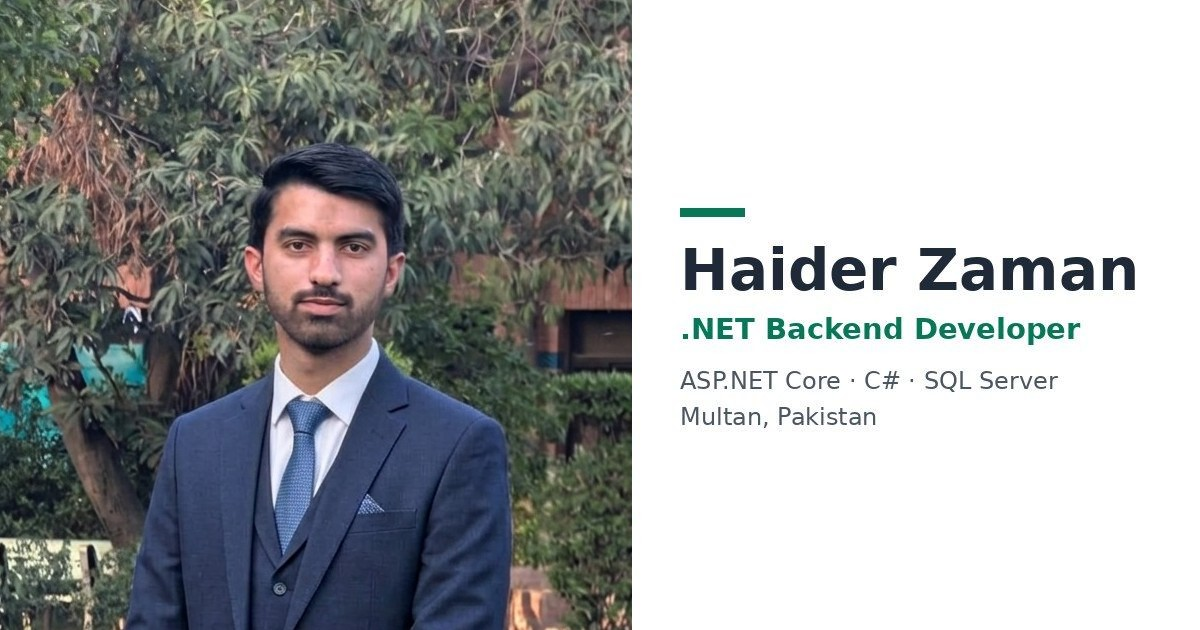
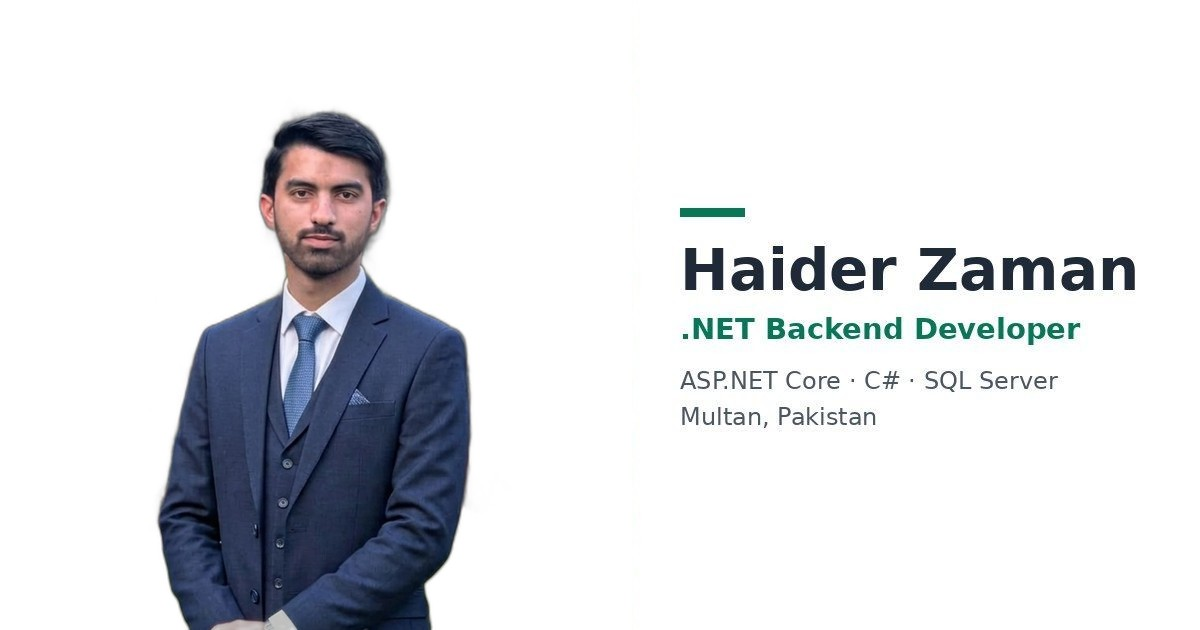
Photo: background-free cutout + soft shadow; header mission-control chrome
- Photo: the suit photo is now a background-free cutout
  (transparent PNG, background removed with rembg u2netp —
  the full u2net model OOM-killed the sandbox). The cutout
  floats on the cream page with a soft drop-shadow
  (photo-shadow, deliberately light). All four references
  now point at haider-zaman.png; the old .jpg is deleted
  (backed up at hidden_files/haider-zaman-suit-bg.jpg).
  Hero and About lose their card frame / white background —
  the photo floats free. og-image.jpg: left half is the
  cutout on white, right text panel untouched.
- Header: lime scroll-progress bar across the top, a compact
  "AVAILABLE" status pill (mono, pulsing lime dot), nav links
  get Agentware-style corner brackets on hover, active page
  gets a sage background, and the header gains a shadow +
  backdrop blur once scrolled. Colours unchanged (green +
  cream). Back-to-top anchor target (id="top") added.
- Section headings: bracketed mono eyebrow "[ 01 — About ]"
  with per-page numbers (About 01-04, Home 01-02, Projects /
  Experience / Contact / Blog 01). The lime-square eyebrow
  is replaced by the bracket style.

diff --git a/src/components/layout/site-header.tsx b/src/components/layout/site-header.tsx
@@ -19,6 +19,23 @@ export function SiteHeader() {
   const pathname = usePathname();
   const [menuOpen, setMenuOpen] = React.useState(false);
   const menuButtonRef = React.useRef<HTMLButtonElement>(null);
+  // Mission-control chrome (26 Nov 2026, Agentware-inspired):
+  // a lime scroll-progress bar across the top, and a shadow +
+  // backdrop blur once the page is scrolled. Colours stay the
+  // green + cream palette — only the chrome is new.
+  const [scrollProgress, setScrollProgress] = React.useState(0);
+  const [scrolled, setScrolled] = React.useState(false);
+  React.useEffect(() => {
+    const onScroll = () => {
+      const el = document.documentElement;
+      const max = el.scrollHeight - el.clientHeight;
+      setScrollProgress(max > 0 ? (el.scrollTop / max) * 100 : 0);
+      setScrolled(el.scrollTop > 8);
+    };
+    onScroll();
+    window.addEventListener("scroll", onScroll, { passive: true });
+    return () => window.removeEventListener("scroll", onScroll);
+  }, []);
   // No route progress bar (Haider, 26 Nov 2026): pages are static
   // and open without a loading state, so there is no loading bar to
   // show — a click goes straight to the next page.
@@ -48,7 +65,23 @@ export function SiteHeader() {
       : pathname === href || pathname.startsWith(`${href}/`);
 
   return (
-    <header className="sticky top-0 z-40 border-b border-border bg-background">
+    <header
+      id="top"
+      className={cn(
+        "sticky top-0 z-40 border-b border-border bg-background",
+        scrolled && "shadow-[0_1px_12px_rgb(15_61_46/0.08)] backdrop-blur-md",
+      )}
+    >
+      {/* Scroll progress — lime bar across the very top. */}
+      <div
+        aria-hidden="true"
+        className="absolute inset-x-0 top-0 h-[3px] bg-transparent"
+      >
+        <div
+          className="h-full bg-lime transition-[width] duration-100 ease-out"
+          style={{ width: `${scrollProgress}%` }}
+        />
+      </div>
       <div className="mx-auto flex h-16 max-w-6xl items-center justify-between px-4 sm:px-6">
         <Link
           href="/"
@@ -59,12 +92,12 @@ export function SiteHeader() {
           aria-label="Haider Zaman — home"
         >
           <Image
-            src="/images/haider-zaman.jpg"
+            src="/images/haider-zaman.png"
             alt="Haider Zaman"
             width={32}
             height={32}
             priority
-            className="size-8 rounded-full object-cover object-top transition-transform duration-200 group-hover:-translate-y-0.5"
+            className="photo-shadow-sm size-8 rounded-full object-cover object-top transition-transform duration-200 group-hover:-translate-y-0.5"
           />
           Haider Zaman
         </Link>
@@ -81,23 +114,54 @@ export function SiteHeader() {
                 href={link.href}
                 aria-current={active ? "page" : undefined}
                 className={cn(
-                  "nav-link rounded-md px-3 py-2 font-mono text-[15px] font-medium transition-colors duration-200",
-                  active ? "text-accent" : "text-muted hover:text-accent",
+                  "group rounded-md px-3 py-2 font-mono text-[15px] font-medium transition-colors duration-200",
+                  active
+                    ? "bg-mint text-accent"
+                    : "text-muted hover:text-accent",
                 )}
               >
+                {/* Corner brackets on hover (Agentware-style) — the
+                    bracket spans fade in; active page keeps them. */}
+                <span
+                  aria-hidden="true"
+                  className={cn(
+                    "text-accent transition-opacity duration-200",
+                    active
+                      ? "opacity-100"
+                      : "opacity-0 group-hover:opacity-100",
+                  )}
+                >
+                  [
+                </span>
                 {link.label}
+                <span
+                  aria-hidden="true"
+                  className={cn(
+                    "text-accent transition-opacity duration-200",
+                    active
+                      ? "opacity-100"
+                      : "opacity-0 group-hover:opacity-100",
+                  )}
+                >
+                  ]
+                </span>
               </Link>
             );
           })}
         </nav>
 
         <div className="flex items-center gap-1">
-          {/* No availability pill, social icons, or theme toggle
-              here (voice-note feedback, 23 Nov 2026; single theme,
-              26 Nov 2026): the "Seeking junior .NET roles" line
-              lives in the hero, GitHub/LinkedIn are in the footer,
-              the hero and the contact page, and the site is green +
-              cream only — there is no dark theme to toggle to. */}
+          {/* Terminal-style status pill (26 Nov 2026): the header
+              was bare, so a compact availability signal returns —
+              small, mono, and distinct from the old pill removed
+              on 23 Nov. The full seeking line lives in the hero. */}
+          <span className="mr-2 hidden items-center gap-2 rounded-full border border-border bg-background px-3 py-1 font-mono text-xs font-medium text-accent lg:inline-flex">
+            <span
+              aria-hidden="true"
+              className="inline-block size-1.5 animate-pulse rounded-full bg-lime"
+            />
+            AVAILABLE
+          </span>
           <Button
             ref={menuButtonRef}
             variant="ghost"

diff --git a/src/components/sections/hero.tsx b/src/components/sections/hero.tsx
@@ -184,18 +184,19 @@ export function Hero() {
           className="hero-enter mx-auto w-full max-w-[280px]"
           style={{ animationDelay: "0.16s" }}
         >
-          <div className="overflow-hidden rounded-xl border-2 border-navy/20 shadow-md">
-            <Image
-              src="/images/haider-zaman.jpg"
-              alt="Haider Zaman — .NET Backend Developer, Multan, Pakistan"
-              width={560}
-              height={700}
-              priority
-              quality={70}
-              sizes="(max-width: 768px) 280px, 280px"
-              className="aspect-[4/5] w-full object-cover object-top transition-transform duration-300 hover:scale-[1.02]"
-            />
-          </div>
+          {/* No card frame: the photo is a background-free cutout
+              that floats on the cream page, lifted by a soft
+              drop-shadow (photo-shadow) — no border, no box. */}
+          <Image
+            src="/images/haider-zaman.png"
+            alt="Haider Zaman — .NET Backend Developer, Multan, Pakistan"
+            width={560}
+            height={700}
+            priority
+            quality={70}
+            sizes="(max-width: 768px) 280px, 280px"
+            className="photo-shadow aspect-[4/5] w-full object-cover object-top transition-transform duration-300 hover:scale-[1.02]"
+          />
           <p className="mt-3 text-center text-sm font-medium text-navy">
             {profile.roleLine} · {profile.location}
           </p>

diff --git a/src/components/motion/reveal.tsx b/src/components/motion/reveal.tsx
@@ -96,6 +96,7 @@ export function SectionHeading({
   level = "h2",
   size = "lg",
   id,
+  num,
 }: {
   eyebrow: string;
   title: string;
@@ -105,14 +106,28 @@ export function SectionHeading({
       on the same page (About's Skills, Education, Certifications). */
   size?: "lg" | "md";
   id?: string;
+  /** Optional mission-control section number (26 Nov 2026,
+      Agentware-inspired): rendered as "[ 01 — … ]" in the mono
+      eyebrow. Omit it and the eyebrow is just "[ … ]". */
+  num?: string;
 }) {
   const headingId = id ?? `${slugify(title)}-heading`;
   const Heading = level;
   return (
     <Reveal>
-      <p className="flex items-center gap-2 text-sm font-semibold tracking-wide text-navy uppercase">
-        <span aria-hidden="true" className="inline-block size-2 bg-lime" />
-        {eyebrow}
+      {/* Bracketed mono eyebrow (26 Nov 2026): the terminal-style
+          "[ 01 — LABEL ]" replaces the old lime-square eyebrow. */}
+      <p className="font-mono text-sm font-semibold tracking-wide uppercase">
+        <span aria-hidden="true" className="text-accent">
+          [{" "}
+        </span>
+        <span className="text-navy">
+          {num ? `${num} — ` : ""}
+          {eyebrow}
+        </span>
+        <span aria-hidden="true" className="text-accent">
+          {" ]"}
+        </span>
       </p>
       <Heading
         id={headingId}

diff --git a/src/app/globals.css b/src/app/globals.css
@@ -180,6 +180,39 @@ body {
 }
 
 /*
+ * Footer marquee (see layout/site-footer.tsx): a slow repeating
+ * strip. The track holds the items twice and translates -50%,
+ * so the loop is seamless. Reduced motion collapses it via the
+ * global rule above (animation-duration 0.01ms).
+ */
+@keyframes marquee {
+  from {
+    transform: translateX(0);
+  }
+  to {
+    transform: translateX(-50%);
+  }
+}
+
+.marquee-track {
+  animation: marquee 30s linear infinite;
+}
+
+/*
+ * Cutout photo shadow (26 Nov 2026): the hero / About photo is a
+ * background-free PNG, so a box-shadow would frame the rectangle.
+ * drop-shadow follows the cutout's alpha shape instead — a soft,
+ * professional lift, deliberately light (Haider: "bilkul hulka sa").
+ */
+.photo-shadow {
+  filter: drop-shadow(0 10px 16px rgb(15 61 46 / 0.13));
+}
+
+.photo-shadow-sm {
+  filter: drop-shadow(0 2px 3px rgb(15 61 46 / 0.15));
+}
+
+/*
  * 3D tilt fallback (see components/motion/tilt.tsx): the JS tilt
  * follows the cursor (an inline transform, which wins over the
  * hover class whenever it is set). But some environments move the

diff --git a/src/components/sections/about.tsx b/src/components/sections/about.tsx
@@ -21,6 +21,7 @@ export function About() {
     <Section id="about" labelledBy="about-heading" compact>
       <SectionHeading
         eyebrow="About"
+        num="01"
         title="Haider Zaman"
         level="h1"
         id="about-heading"
@@ -43,14 +44,16 @@ export function About() {
           </p>
         </Reveal>
         <Reveal delay={0.1}>
+          {/* No card background: the cutout floats on the cream
+              page, lifted by a soft drop-shadow (photo-shadow). */}
           <Image
-            src="/images/haider-zaman.jpg"
+            src="/images/haider-zaman.png"
             alt="Haider Zaman"
             width={560}
             height={700}
             priority
             sizes="(max-width: 768px) 100vw, 280px"
-            className="aspect-[4/5] w-full rounded-xl border border-border bg-surface object-cover object-top"
+            className="photo-shadow aspect-[4/5] w-full rounded-xl object-cover object-top"
           />
           <p className="mt-3 text-center text-sm text-muted">
             {profile.location}

diff --git a/src/components/sections/projects.tsx b/src/components/sections/projects.tsx
@@ -11,6 +11,7 @@ export function Projects() {
     <Section id="projects" labelledBy="projects-heading">
       <SectionHeading
         eyebrow="Projects"
+        num="01"
         title="Featured projects"
         level="h1"
         id="projects-heading"
@@ -47,6 +48,7 @@ export function FeaturedProjectsPreview() {
     <Section id="featured-projects" labelledBy="featured-projects-heading">
       <SectionHeading
         eyebrow="Projects"
+        num="02"
         title="Featured projects"
         id="featured-projects-heading"
         description="Real client work first. Each project opens a detail page with what was built, the stack, and an honest note on what is and is not verified."

diff --git a/src/components/sections/education.tsx b/src/components/sections/education.tsx
@@ -16,7 +16,7 @@ export function Education() {
   const [degree, ...schooling] = educationHistory;
   return (
     <Section id="education" labelledBy="education-heading" compact>
-      <SectionHeading eyebrow="Education" title="Education" size="md" id="education-heading" />
+      <SectionHeading eyebrow="Education" num="03" title="Education" size="md" id="education-heading" />
       <div className="mt-10 space-y-6">
         <Reveal delay={0.05}>
           <div className="flex flex-col gap-6 rounded-xl border border-border bg-surface p-6 transition-all duration-200 hover:-translate-y-0.5 hover:border-accent/60 hover:shadow-md sm:flex-row sm:items-start sm:gap-8">

diff --git a/src/app/layout.tsx b/src/app/layout.tsx
@@ -65,7 +65,7 @@ const jsonLd = {
   jobTitle: "ASP.NET Core Developer",
   description,
   url: siteUrl,
-  image: `${siteUrl}/images/haider-zaman.jpg`,
+  image: `${siteUrl}/images/haider-zaman.png`,
   address: {
     "@type": "PostalAddress",
     addressLocality: "Multan",

diff --git a/src/app/blog/page.tsx b/src/app/blog/page.tsx
@@ -22,6 +22,7 @@ export default function Page() {
     <Section id="blog" labelledBy="blog-heading" tone="soft">
       <SectionHeading
         eyebrow="Blog"
+        num="01"
         title="Writing"
         level="h1"
         id="blog-heading"

diff --git a/src/components/sections/contact.tsx b/src/components/sections/contact.tsx
@@ -42,6 +42,7 @@ export function Contact() {
     <Section id="contact" labelledBy="contact-heading">
       <SectionHeading
         eyebrow="Contact"
+        num="01"
         title="Get in touch"
         level="h1"
         id="contact-heading"
